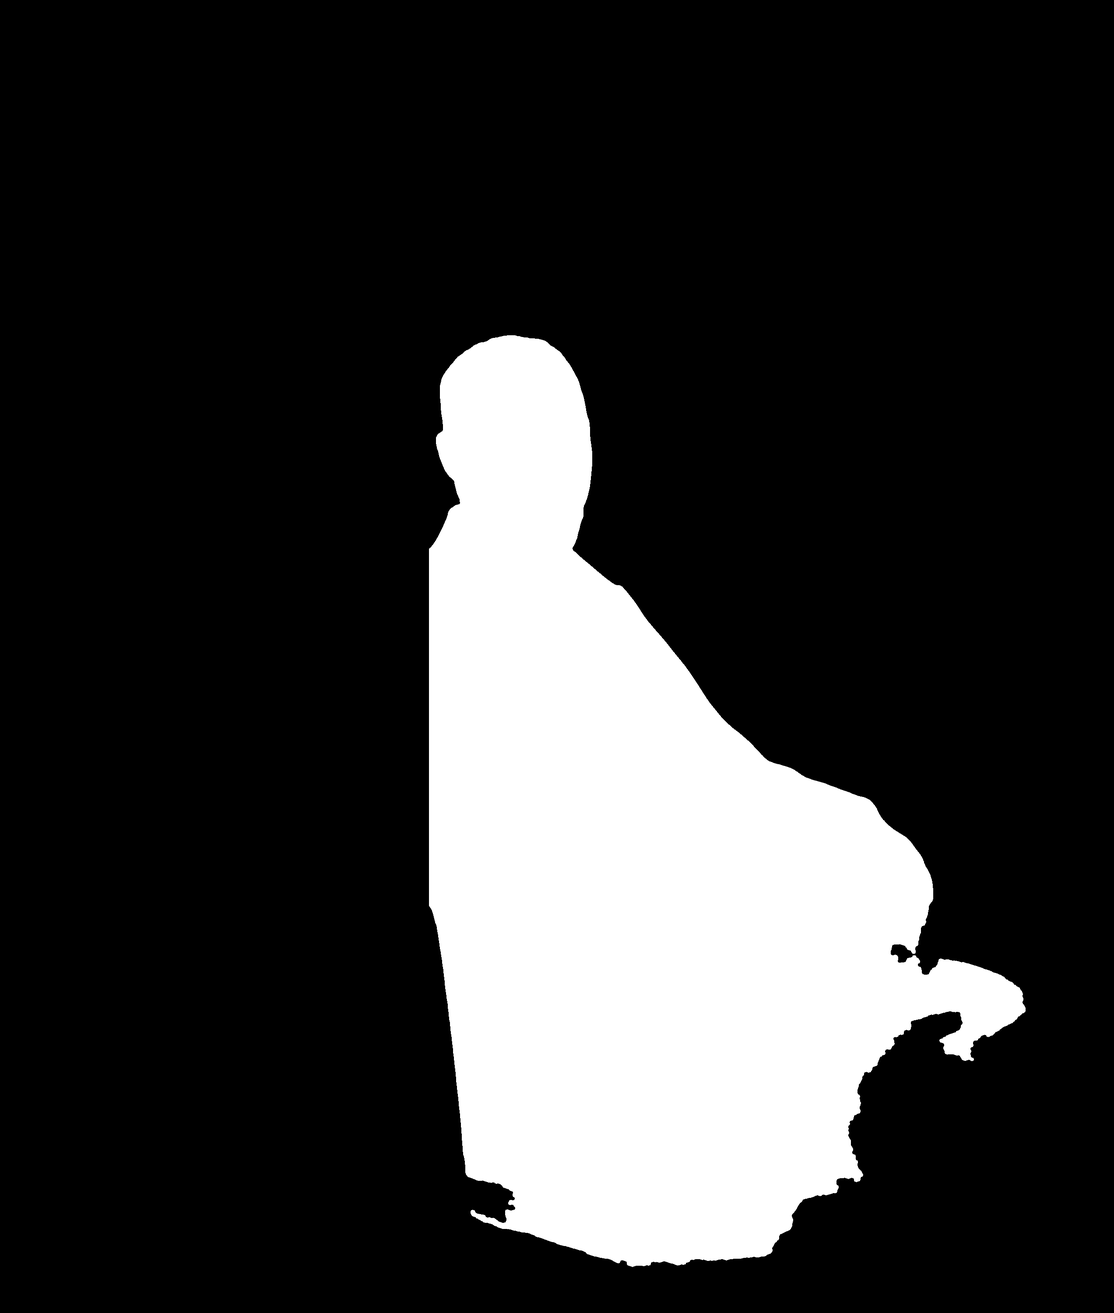
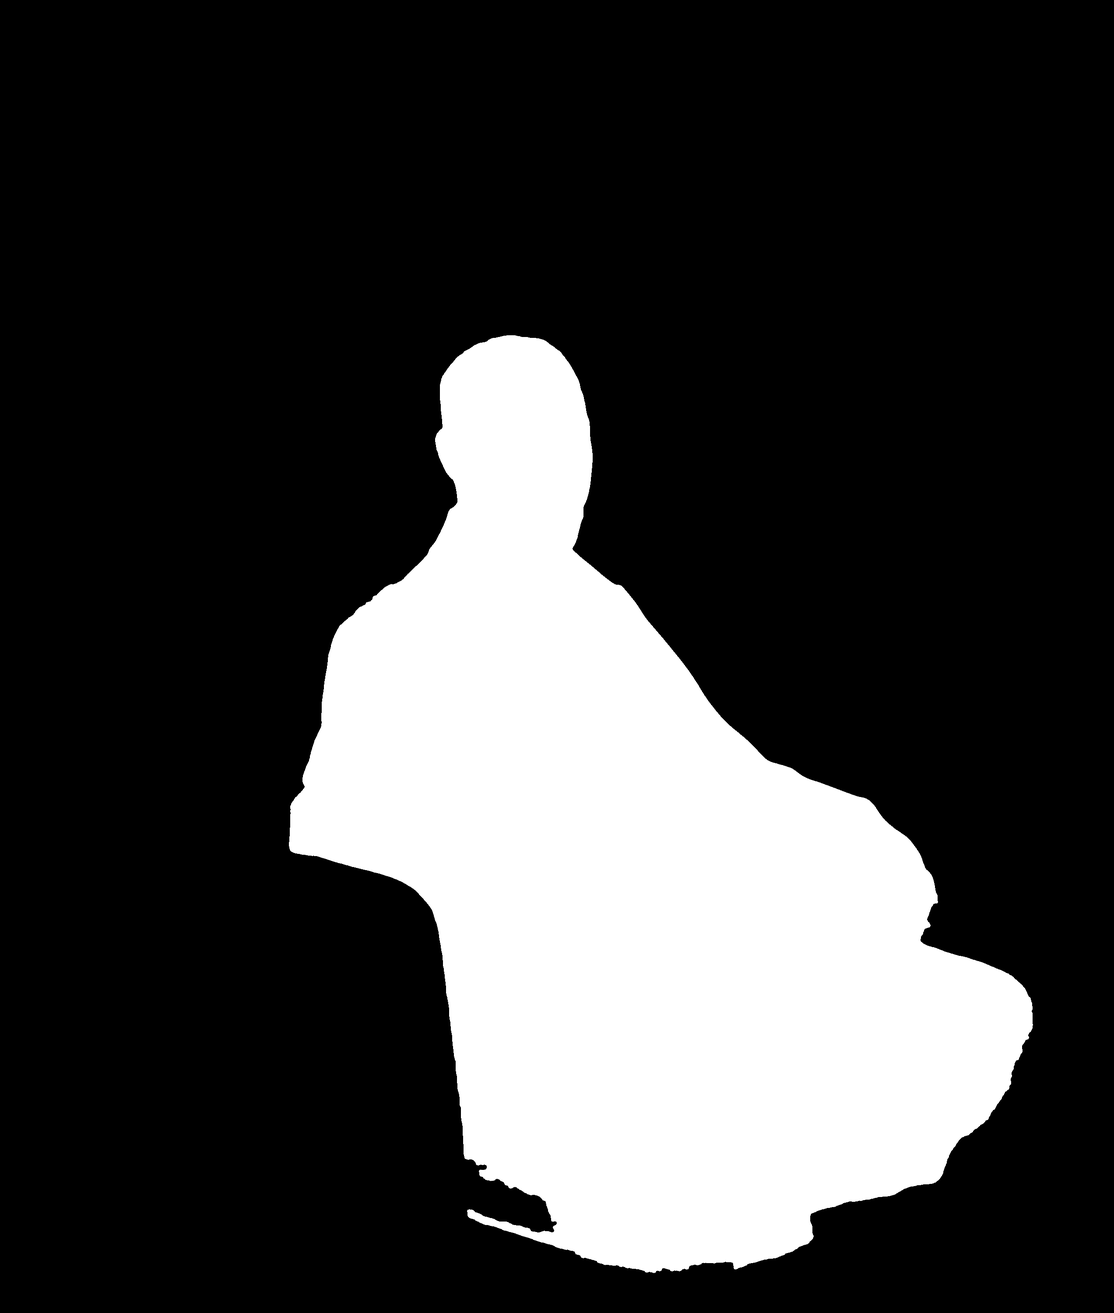
Episode 2 ch01 (cold open, title card); board end shot avoids slicing pieces; row 2 moved clear of Episode 1
Claude-Session: https://claude.ai/code/session_01VWs6QjyLkPcnJxKdxdrfAF

diff --git a/projects/Reconstruction/ep2/src/kit/ep2board.tsx b/projects/Reconstruction/ep2/src/kit/ep2board.tsx
@@ -38,60 +38,60 @@ const Roll: React.FC<{mark: number}> = ({mark}) => (
 // Episode 2's pieces (ch = this episode's chapter). Episode 1's come from its own table, already landed.
 const P2: Piece[] = [
   // ch01 ★ the first Black senator
-  {id: 'senators', ch: 1, dt: 0, kind: 'drop', x: 520, y: 1150, r: -2, el: () => <Photo src={W + 'cr_senators.png'} w={400} />},
-  {id: 'senatorsStrip', ch: 1, dt: 12, kind: 'slide', x: 530, y: 1462, r: 2, el: () => <Strip text="the first Black senator · 1870" seed="s2" size={22} bg={CORAL_LABEL} />},
+  {id: 'senators', ch: 1, dt: 0, kind: 'drop', x: 520, y: 1350, r: -2, el: () => <Photo src={W + 'cr_senators.png'} w={400} />},
+  {id: 'senatorsStrip', ch: 1, dt: 12, kind: 'slide', x: 530, y: 1662, r: 2, el: () => <Strip text="the first Black senator · 1870" seed="s2" size={22} bg={CORAL_LABEL} />},
   // ch02 the three words go up under the petition; the army goes back in
   {id: 'words', ch: 2, dt: 0, kind: 'drop', x: 680, y: 205, r: 1, el: () => <Photo src={W + 'cr_three_words.png'} w={560} />},
   {id: 'districts', ch: 2, dt: 22, kind: 'drop', x: 2000, y: 140, r: 3, el: () => <Photo src={W + 'cr_districts.png'} w={360} />},
   {id: 'districtsStrip', ch: 2, dt: 34, kind: 'slide', x: 2000, y: 355, r: -2, el: () => <Strip text="5 military districts · 1867" seed="md" size={20} />},
   // ch03 the blacksmith: his name on the roll of the 1868 convention
-  {id: 'roll', ch: 3, dt: 0, kind: 'drop', x: 500, y: 1540, r: -1, el: (c) => <Roll mark={c.mark} />},
-  {id: 'rollStrip', ch: 3, dt: 14, kind: 'slide', x: 520, y: 1612, r: 1, el: () => <Strip text="Charles Caldwell · Mississippi, 1868" seed="cc" size={20} />},
+  {id: 'roll', ch: 3, dt: 0, kind: 'drop', x: 500, y: 1740, r: -1, el: (c) => <Roll mark={c.mark} />},
+  {id: 'rollStrip', ch: 3, dt: 14, kind: 'slide', x: 520, y: 1812, r: 1, el: () => <Strip text="Charles Caldwell · Mississippi, 1868" seed="cc" size={20} />},
   // ch04 one vote short
-  {id: 'acquittal', ch: 4, dt: 0, kind: 'drop', x: 1000, y: 1150, r: 2, el: () => <Photo src={W + 'cr_acquittal.png'} w={260} />},
-  {id: 'short', ch: 4, dt: 26, kind: 'stamp', x: 975, y: 1380, r: -4, z: 6, el: () => <Stamp text="35 – 19 · ONE VOTE SHORT" size={24} />},
+  {id: 'acquittal', ch: 4, dt: 0, kind: 'drop', x: 1000, y: 1350, r: 2, el: () => <Photo src={W + 'cr_acquittal.png'} w={260} />},
+  {id: 'short', ch: 4, dt: 26, kind: 'stamp', x: 975, y: 1580, r: -4, z: 6, el: () => <Stamp text="35 – 19 · ONE VOTE SHORT" size={24} />},
   // ch05 ★ the 15th Amendment (LAW), and VOTELESS struck on the three words
-  {id: 'fifteenth', ch: 5, dt: 0, kind: 'drop', x: 60, y: 1150, r: 1.5, el: () => (
+  {id: 'fifteenth', ch: 5, dt: 0, kind: 'drop', x: 60, y: 1350, r: 1.5, el: () => (
     <Scrap text="The right of citizens … to vote shall not be denied … on account of race, color, or previous condition of servitude." mark="on account of race, color, or previous condition of servitude" w={390} seed="15" size={23} />
   )},
-  {id: 'fifteenthStrip', ch: 5, dt: 12, kind: 'slide', x: 70, y: 1116, r: -2, el: () => <Strip text="15th Amendment · 1870" seed="e15" size={20} bg={CORAL_LABEL} />},
+  {id: 'fifteenthStrip', ch: 5, dt: 12, kind: 'slide', x: 70, y: 1316, r: -2, el: () => <Strip text="15th Amendment · 1870" seed="e15" size={20} bg={CORAL_LABEL} />},
   {id: 'strike', ch: 5, dt: 30, kind: 'fade', x: 1000, y: 232, z: 8, el: (c) => (
     <svg width={160} height={24} style={{overflow: 'visible'}}><path d={`M 4 14 Q 70 4 ${4 + 150 * c.strike} 12`} stroke={TEAL} strokeWidth={8} fill="none" strokeLinecap="round" /></svg>
   )},
   // ch06 bottom rail on top
-  {id: 'rail', ch: 6, dt: 0, kind: 'slap', x: 1020, y: 1480, r: -4, el: () => <Sticky text="bottom rail on top" w={190} size={44} />},
-  {id: 'officeholders', ch: 6, dt: 20, kind: 'stamp', x: 1230, y: 1560, r: 3, z: 6, el: () => <Stamp text="≈ 2,000 IN OFFICE" size={26} />},
+  {id: 'rail', ch: 6, dt: 0, kind: 'slap', x: 1020, y: 1680, r: -4, el: () => <Sticky text="bottom rail on top" w={190} size={44} />},
+  {id: 'officeholders', ch: 6, dt: 20, kind: 'stamp', x: 1230, y: 1760, r: 3, z: 6, el: () => <Stamp text="≈ 2,000 IN OFFICE" size={26} />},
   // ch07 carpetbaggers: Ames (PROTECTION)
   {id: 'ames', ch: 7, dt: 0, kind: 'drop', x: 2010, y: 560, r: -2, el: () => <Photo src={W + 'cr_ames.png'} w={200} />},
   {id: 'amesStrip', ch: 7, dt: 12, kind: 'slide', x: 1990, y: 840, r: 2, el: () => <Strip text="Adelbert Ames · Mississippi" seed="am" size={20} />},
   // ch08 sharecropping (LAND)
-  {id: 'contract', ch: 8, dt: 0, kind: 'drop', x: 1510, y: 1150, r: 2, el: () => <Photo src={W + 'cr_contract.png'} w={330} />},
-  {id: 'contractStrip', ch: 8, dt: 12, kind: 'slide', x: 1500, y: 1400, r: -2, el: () => <Strip text="sharecropping · 1867" seed="sh" size={20} />},
+  {id: 'contract', ch: 8, dt: 0, kind: 'drop', x: 1510, y: 1350, r: 2, el: () => <Photo src={W + 'cr_contract.png'} w={330} />},
+  {id: 'contractStrip', ch: 8, dt: 12, kind: 'slide', x: 1500, y: 1600, r: -2, el: () => <Strip text="sharecropping · 1867" seed="sh" size={20} />},
   // ch09 the debt, and convict leasing
-  {id: 'debt', ch: 9, dt: 0, kind: 'drop', x: 1500, y: 1480, r: -1.5, el: () => (
+  {id: 'debt', ch: 9, dt: 0, kind: 'drop', x: 1500, y: 1680, r: -1.5, el: () => (
     <Scrap text="Settling up: the crop sold, the family's half, minus the store, plus interest. It owes more than it made." mark="It owes more than it made." w={330} seed="dbt" size={21} />
   )},
-  {id: 'convict', ch: 9, dt: 30, kind: 'slap', x: 1900, y: 1560, r: 5, el: () => <Sticky text="convict leasing" w={170} size={42} />},
+  {id: 'convict', ch: 9, dt: 30, kind: 'slap', x: 1900, y: 1760, r: 5, el: () => <Sticky text="convict leasing" w={170} size={42} />},
 ];
 
 const N2: BPin[] = [
-  {ch: 1, dt: 22, x: 720, y: 1165, coral: true},
+  {ch: 1, dt: 22, x: 720, y: 1365, coral: true},
   {ch: 2, dt: 10, x: 960, y: 212},
   {ch: 2, dt: 42, x: 2180, y: 152},
-  {ch: 3, dt: 22, x: 1120, y: 1548},
-  {ch: 4, dt: 22, x: 1130, y: 1162},
-  {ch: 5, dt: 22, x: 255, y: 1160, coral: true},
+  {ch: 3, dt: 22, x: 1120, y: 1748},
+  {ch: 4, dt: 22, x: 1130, y: 1362},
+  {ch: 5, dt: 22, x: 255, y: 1360, coral: true},
   {ch: 7, dt: 22, x: 2110, y: 572},
-  {ch: 8, dt: 22, x: 1675, y: 1162},
-  {ch: 9, dt: 22, x: 1665, y: 1490},
+  {ch: 8, dt: 22, x: 1675, y: 1362},
+  {ch: 9, dt: 22, x: 1665, y: 1690},
 ];
 
 const T2: Thread[] = [
   {ch: 2, dt: 48, a: [1270, 715], b: [2180, 152], tag: 'therefore', tagT: 0.58, under: true},
   {ch: 4, dt: 30, a: [1270, 715], b: [1665, 150], tag: '✕', tagT: 0.5, under: true, cut: true},
   {ch: 7, dt: 30, a: [2110, 572], b: [2420, 980], tag: 'part 3 →', tagT: 1, dashed: true},
-  {ch: 8, dt: 28, a: [1680, 465], b: [1675, 1162], tag: 'therefore', tagT: 0.86, under: true},
-  {ch: 9, dt: 40, a: [255, 125], b: [1985, 1570], tag: 'therefore', tagT: 0.93, under: true},
+  {ch: 8, dt: 28, a: [1680, 465], b: [1675, 1362], tag: 'therefore', tagT: 0.9, under: true},
+  {ch: 9, dt: 40, a: [255, 125], b: [1985, 1770], tag: 'therefore', tagT: 0.93, under: true},
 ];
 
 // Episode 1's pieces are all landed: their chapters count as before this episode (ch - 100).
@@ -103,8 +103,8 @@ const COLUMNS = [...E1(C1), {ch: 2, text: 'PROTECTION', x: 2000, y: 34}];
 
 /** Where the camera starts for each chapter's arrival: centre x, centre y, zoom. */
 export const FOCUS: Record<number, [number, number, number]> = {
-  1: [720, 1300, 1.6], 2: [1700, 260, 1.15], 3: [820, 1580, 1.6], 4: [1130, 1270, 1.6], 5: [255, 1250, 1.6],
-  6: [1150, 1560, 1.6], 7: [2110, 700, 1.5], 8: [1675, 1280, 1.5], 9: [1720, 1570, 1.5], 10: [1215, 850, 0.6],
+  1: [720, 1500, 1.6], 2: [1700, 260, 1.15], 3: [820, 1780, 1.6], 4: [1130, 1470, 1.6], 5: [255, 1450, 1.6],
+  6: [1150, 1760, 1.6], 7: [2110, 700, 1.5], 8: [1675, 1480, 1.5], 9: [1720, 1770, 1.5], 10: [1215, 950, 0.55],
 };
 
 const ThreadTag: React.FC<{text: string; x: number; y: number; show: number; coral?: boolean}> = ({text, x, y, show, coral}) => (
@@ -143,23 +143,37 @@ export const SeriesBoard: React.FC<{ch: number; from: number; at: number; cam?: 
   const when = (pch: number, dt: number) => (pch < ch ? from - 400 : pch === ch ? at + dt : 1e7);
   const [fx, fy, fz] = FOCUS[ch];
   const lastDt = Math.max(0, ...[...P2, ...N2, ...T2].filter((p) => p.ch === ch).map((p) => p.dt));
-  // end shot: this chapter's pieces (and non-tucked thread ends), widened to take in any piece it would otherwise slice
-  const rect = (p: Piece) => [p.x, p.y, p.x + SIZE[p.kind][0], p.y + SIZE[p.kind][1]];
+  // end shot: this chapter's pieces (and non-tucked thread ends) in frame, and the frame's edges in empty board, so no
+  // other piece is sliced: try the tightest zoom first, then nudge the centre and widen until nothing is cut
+  const rect = (p: {kind: LandKind; x: number; y: number}) => [p.x, p.y, p.x + SIZE[p.kind][0], p.y + SIZE[p.kind][1]];
   const mineP = P2.filter((p) => p.ch === ch);
   let box = [1e9, 1e9, -1e9, -1e9];
   const grow = (r: number[]) => { box = [Math.min(box[0], r[0]), Math.min(box[1], r[1]), Math.max(box[2], r[2]), Math.max(box[3], r[3])]; };
   mineP.forEach((p) => grow(rect(p)));
   T2.filter((t) => t.ch === ch && !t.under).forEach((t) => grow([Math.min(t.a[0], t.b[0]), Math.min(t.a[1], t.b[1]), Math.max(t.a[0], t.b[0]), Math.max(t.a[1], t.b[1])]));
+  const others = PIECES.filter((p) => p.ch <= ch).map(rect);
+  const fits = (cx: number, cy: number, z: number) => {
+    const hw = 960 / z, hh = 540 / z, m = 70 / z;   // keep the chapter's pieces 70 px inside the edge
+    const v = [cx - hw, cy - hh, cx + hw, cy + hh];
+    if (box[0] < v[0] + m || box[2] > v[2] - m || box[1] < v[1] + m || box[3] > v[3] - m) return false;
+    return others.every((r) => r[2] <= v[0] || r[0] >= v[2] || r[3] <= v[1] || r[1] >= v[3] || (r[0] >= v[0] && r[2] <= v[2] && r[1] >= v[1] && r[3] <= v[3]));
+  };
+  let end: [number, number, number] = [fx, fy, 0.9];
   if (mineP.length) {
-    const pad = 160, b0 = [...box];
-    PIECES.filter((p) => p.ch < ch || p.ch === ch).forEach((p) => {
-      const r = rect(p);
-      if (r[2] > b0[0] - pad && r[0] < b0[2] + pad && r[3] > b0[1] - pad && r[1] < b0[3] + pad) grow(r);
-    });
+    const cx0 = (box[0] + box[2]) / 2, cy0 = (box[1] + box[3]) / 2;
+    const z0 = Math.min(1.25, Math.min(1760 / (box[2] - box[0] + 140), 940 / (box[3] - box[1] + 140)));
+    let found = false;
+    for (let z = z0; z >= 0.55 && !found; z *= 0.96) {
+      for (let r = 0; r <= 400 && !found; r += 40) {
+        for (let k = 0; k < (r ? 8 : 1) && !found; k++) {
+          const cx = cx0 + r * Math.cos((k * Math.PI) / 4), cy = cy0 + r * Math.sin((k * Math.PI) / 4) * 0.6;
+          if (fits(cx, cy, z)) { end = [cx, cy, z]; found = true; }
+        }
+      }
+    }
+    if (!found) end = [cx0, cy0, Math.max(0.55, z0 * 0.7)];
   }
-  const [bx0, by0, bx1, by1] = [box[0] - 90, box[1] - 90, box[2] + 90, box[3] + 90];
-  const endZ = mineP.length ? Math.min(1.25, Math.max(0.6, Math.min(1720 / (bx1 - bx0), 940 / (by1 - by0)))) : 0.9;
-  const ex = mineP.length ? (bx0 + bx1) / 2 : fx, ey = mineP.length ? (by0 + by1) / 2 : fy;
+  const [ex, ey, endZ] = end;
   const keys: BoardKey[] = cam ?? [
     [from, fx + 20, fy + 10, fz],
     [Math.max(from + 20, at + lastDt + 18), ex, ey, endZ],
@@ -218,8 +232,8 @@ export const SeriesBoard: React.FC<{ch: number; from: number; at: number; cam?: 
 /** The finished board's extras for the ending: the series label and the worn logo sticker. */
 export const BoardSignoff: React.FC<{at: number}> = ({at}) => (
   <>
-    <Land at={at} kind="slide" x={60} y={1700}><Strip text="RECONSTRUCTION · PART 2" seed="cs2" size={22} bg={BRAND.paper} /></Land>
-    <Land at={at + 20} kind="fade" x={2080} y={1690} r={-3}><WornLogo w={300} /></Land>
+    <Land at={at} kind="slide" x={60} y={1920}><Strip text="RECONSTRUCTION · PART 2" seed="cs2" size={22} bg={BRAND.paper} /></Land>
+    <Land at={at + 20} kind="fade" x={2080} y={1910} r={-3}><WornLogo w={300} /></Land>
   </>
 );
 

diff --git a/projects/Reconstruction/ep2/src/ch/Ch01.tsx b/projects/Reconstruction/ep2/src/ch/Ch01.tsx
@@ -1,22 +1,204 @@
-// Chapter 1 · stub: the board only (scenes to come).
+// Chapter 1 · "The First Black Senator": the cold open (Davis walks out; nine years later Revels walks in), the
+// question, the senators print landing on the series board, then the channel intro and the title card.
+// Sources: Brady studio portraits of Davis (c. 1859) and Revels (Brady-Handy, c. 1870), Currier & Ives, "The First
+// Colored Senator and Representatives" (1872), the New-York Tribune of Feb. 26, 1870, and Frank Leslie's of March 12,
+// 1870 (Revels taking the oath). All Library of Congress or Internet Archive scans.
 import React from 'react';
+import {AbsoluteFill, Audio, interpolate, Sequence, staticFile, useCurrentFrame} from 'remotion';
 import words from '../../public/audio/ch01_cold_open.words.json';
-import {DarkPaper} from '../kit/common';
+import {clamp} from '../lib/anim';
+import {Finish, Highlight, JF, Loop, PALETTES, PaletteCtx, StepCtx, Tag, useGFrame, usePal} from '../kit/Kit';
+import {DarkPaper, Sfx} from '../kit/common';
 import {SeriesBoard} from '../kit/ep2board';
-import {cut} from '../kit/rc';
-import {ChapterShell, chapterFrames, LEAD, makeTimeline, type Narration, useScene} from '../kit/shell';
+import {ChannelIntro, INTRO_FRAMES} from '../kit/Intro';
+import {type Box, cut, DocShot, PhotoShot, PRINT_F, Slip, Spot, Swipe} from '../kit/rc';
+import {makeTimeline, type Narration, Photo, useScene} from '../kit/shell';
+import {MASKS} from '../masks';
+import {DATES, SUBTITLE} from '../project';
 
 const N = words as Narration;
 const t = makeTimeline(N, 30);
-export const CH01_FRAMES = chapterFrames(N, 0);
+const TITLE_FRAMES = 150;
+/** Narration ends; the board holds a little longer, then the channel intro. */
+const END = Math.ceil(N.duration * 30) + 45;
+export const CH01_FRAMES = END + INTRO_FRAMES + TITLE_FRAMES;
+
+const PRINT = 'img/wall/senators.jpg';
+const PRINT_S: [number, number] = [1024, 782];
+const PRINT_TAG = 'Currier & Ives, "The First Colored Senator and Representatives", 1872 · Library of Congress';
+const TRIB = 'img/ch01/ny_tribune_1870-02-26_revels_sworn_in_48_8.jpg';
+const TRIB_S: [number, number] = [680, 1270];
+const TRIB_TAG = 'New-York Tribune, Feb. 26, 1870 · Library of Congress';
+const T_SWORN: Box = [210, 546, 280, 26];          // "MR. REVELS SWORN IN."
+const T_VOTE: Box = [316, 890, 192, 26];           // "Yeas, 48; Nays, 8."
+const T_OATH: Box[] = [[48, 1082, 615, 24], [48, 1104, 95, 24]]; // "…took the customary oath / of office."
+const CAPTION: Box = [168, 640, 180, 18];          // "U.S. Senator H.R. REVELS, of Mississippi"
+
+// the shots (cut two frames before the phrase)
+const S_REVELS = cut(t, 'Nine years later'), S_PRINT = cut(t, 'This is a print'), S_STOP = cut(t, 'But before'), S_SCOTT = cut(t, 'Remember the Dred');
+const S_VOTE = cut(t, "It didn't work"), S_OATH = cut(t, 'and Revels took'), S_Q = cut(t, 'Five years earlier'), S_SMITH = cut(t, 'And along the way');
+const S_BOARD = cut(t, 'Hold onto him');
+
+/** 1861: Senator Jefferson Davis, who walked out to lead the Confederacy. */
+const Davis: React.FC = () => (
+  <Photo src="img/ch01/jefferson_davis_1859_brady.jpg" size={[2341, 3000]} fx={1157} fy={790} z0={1.56} z1={1.64} a={0} b={S_REVELS} mask={MASKS.davis1859} tint={null} traceAt={t.at('Jefferson Davis') + 2}>
+    {() => (
+      <>
+        <Slip text="Sen. Jefferson Davis, Mississippi" x={1160} y={250} size={54} at={t.at('Jefferson Davis')} />
+        <Slip text="Jan. 1861: walks out" x={1160} y={380} size={54} rot={2} at={t.at('walked out')} />
+        <Slip text="to lead the Confederacy" x={1200} y={500} size={54} at={t.at('to lead')} />
+        <Tag text="Jefferson Davis, c. 1859 (Brady studio) · Library of Congress" />
+      </>
+    )}
+  </Photo>
+);
+
+/** Nine years later: Hiram Revels. */
+const Revels: React.FC = () => (
+  <Photo src="img/ch01/revels_brady_handy_1870.jpg" size={[2545, 3000]} fx={1600} fy={1000} z0={1.08} z1={1.16} a={S_REVELS} b={S_PRINT} mask={MASKS.revels} traceAt={t.at('Hiram Revels') + 2}>
+    {() => (
+      <>
+        <Slip text="1870 · from Mississippi" x={150} y={240} size={56} at={t.at('his home state')} />
+        <Slip text="Hiram Revels" x={150} y={370} size={64} rot={2} at={t.at('Hiram Revels')} coral />
+        <Slip text="a minister" x={180} y={500} size={54} at={t.at('Black minister')} />
+        <Tag text="Hiram R. Revels, c. 1870 (Brady-Handy) · Library of Congress" />
+      </>
+    )}
+  </Photo>
+);
+
+/** The print, then the camera finds the man seated on the left. */
+const Print: React.FC = () => {
+  const g = useGFrame();
+  const left = t.at('Look at');
+  return (
+    <DocShot src={PRINT} size={PRINT_S} seed="sen" filter={PRINT_F} tag={PRINT_TAG}
+      keys={[[S_PRINT, {x: 512, y: 380, z: 1.6}], [left, {x: 470, y: 400, z: 1.7}], [left + 30, {x: 250, y: 380, z: 2.7}], [S_STOP, {x: 240, y: 390, z: 2.85}]]}
+      over={<>
+        {g >= t.at('The first Black') && <Highlight text="THE FIRST BLACK SENATOR" x={700} y={790} size={80} at={t.at('The first Black')} seed={31} rot={-2} />}
+      </>}>
+      <Loop cx={205} cy={330} rx={120} ry={160} at={t.at('seated on the left')} seed={33} tilt={-6} />
+      <Swipe lines={[CAPTION]} from={t.at('The first Black')} to={t.end('history')} seed="cap" />
+    </DocShot>
+  );
+};
+
+/** The objection: nine years a citizen, and Dred Scott. */
+const Stop: React.FC = () => (
+  <AbsoluteFill>
+    <DocShot src={TRIB} size={TRIB_S} seed="trib" tag="" filter="grayscale(1) sepia(0.15) contrast(1.4) brightness(0.55)"
+      keys={[[S_STOP, {x: 340, y: 330, z: 1.35}], [S_SCOTT, {x: 340, y: 380, z: 1.42}]]} />
+    <AbsoluteFill style={{background: 'rgba(10,9,7,0.55)'}} />
+    <Slip text="the Constitution: a senator needs 9 years as a citizen" x={170} y={200} size={56} at={t.at('The Constitution')} />
+    <Slip text="before 1866, they argued: no Black citizens at all" x={220} y={340} size={56} rot={2} at={t.at('until 1866')} coral />
+    <Tag text="The Senate debate, New-York Tribune, Feb. 26, 1870 · Library of Congress" />
+  </AbsoluteFill>
+);
+const Scott: React.FC = () => (
+  <PhotoShot src="img/ep1/cr_dred_scott.png" size={[900, 1159]} a={S_SCOTT} b={S_VOTE} w={420} x={560} y={560} tag="Dred Scott, photograph, c. 1857 · public domain, via Wikimedia Commons">
+    <Slip text="Dred Scott decision, 1857" x={900} y={330} size={58} at={t.at('Dred Scott')} />
+    <Slip text="still using it, in 1870" x={940} y={470} size={58} rot={2} at={t.at('still using')} coral />
+  </PhotoShot>
+);
+
+/** The vote, as the Tribune printed it the next morning. */
+const Vote: React.FC = () => (
+  <DocShot src={TRIB} size={TRIB_S} seed="trib" tag={TRIB_TAG}
+    keys={[[S_VOTE, {x: 330, y: 620, z: 1.25}], [t.at('The Senate voted') - 4, {x: 380, y: 880, z: 1.9}], [S_OATH, {x: 400, y: 900, z: 2.0}]]}>
+    <Swipe lines={[T_SWORN]} from={S_VOTE + 4} to={S_VOTE + 16} seed="sw" />
+    <Swipe lines={[T_VOTE]} from={t.at('48')} to={t.end('8')} seed="vt" />
+  </DocShot>
+);
+
+/** And he took the oath: Leslie's cover engraving, with the Tribune's line. */
+const Oath: React.FC = () => (
+  <Photo src="img/ch01/revels_oath_leslies_1870_engraving.jpg" size={[2844, 3000]} fx={1420} fy={1300} z0={1.04} z1={1.1} a={S_OATH} b={S_Q} bw="grayscale(1) contrast(1.35)">
+    {() => (
+      <>
+        <Slip text="Feb. 25, 1870" x={150} y={170} size={56} at={S_OATH + 4} />
+        <Tag text={`"Administering the oath to Hiram Revels", Frank Leslie's, March 12, 1870 · Internet Archive`} />
+      </>
+    )}
+  </Photo>
+);
+
+/** The question. */
+const Question: React.FC = () => (
+  <AbsoluteFill>
+    <DarkPaper />
+    <Slip text="1865: not one Black man in Mississippi could vote" x={180} y={180} size={58} at={t.at('Five years earlier')} />
+    <Slip text="1870: a Black senator from Mississippi" x={260} y={320} size={58} rot={2} at={t.at('not one') + 20} />
+    <Highlight text="HOW SO FAST?" x={300} y={520} size={110} at={t.at('how did that')} seed={35} rot={-2} />
+    <Slip text="and what was it all resting on?" x={420} y={740} size={66} at={t.at('what was all')} coral />
+  </AbsoluteFill>
+);
+
+/** A blacksmith, still to come: a labelled stand-in, never him. */
+const Smith: React.FC = () => (
+  <PhotoShot src="img/ch03/LATER_blacksmithing_am_college_greensboro_1899.jpg" size={[640, 473]} a={S_SMITH} b={S_BOARD} w={760} x={760} y={520}
+    tag="Blacksmithing, Agricultural and Mechanical College, Greensboro, N.C., 1899 · Library of Congress">
+    <Slip text="a blacksmith, Clinton, Mississippi" x={1180} y={300} size={54} at={t.at('blacksmith')} />
+    <Slip text="(not him: no photo of him is known)" x={1220} y={420} size={46} rot={2} at={t.at('small town') + 6} />
+  </PhotoShot>
+);
+
+/** Title card after the channel intro: the senators print dimmed behind, the title on orange. */
+const Title: React.FC = () => {
+  const g = useGFrame();
+  const f = useCurrentFrame();
+  const pal = usePal();
+  return (
+    <AbsoluteFill style={{background: '#0d0c09'}}>
+      <AbsoluteFill style={{opacity: 0.32, filter: 'blur(2px)'}}>
+        <DocShot src={PRINT} size={PRINT_S} seed="tt" filter={PRINT_F} tag="" keys={[[0, {x: 512, y: 360, z: 1.95 + f * 0.0006}], [200, {x: 512, y: 360, z: 2.07}]]} />
+      </AbsoluteFill>
+      <AbsoluteFill style={{background: 'radial-gradient(ellipse at 45% 50%, rgba(8,6,4,0.25) 30%, rgba(8,6,4,0.88) 100%)'}} />
+      <Highlight text="BOTTOM RAIL" x={260} y={250} size={160} at={4} seed={71} rot={-2} />
+      <Highlight text="ON TOP" x={360} y={470} size={160} at={10} seed={72} rot={-2} />
+      {g >= 20 && <div style={{position: 'absolute', left: 420, top: 720, fontFamily: JF.display, fontSize: 64, color: pal.mark, textShadow: '0 3px 16px rgba(0,0,0,0.8)',
+        opacity: interpolate(g, [20, 26], [0, 1], clamp)}}>{SUBTITLE}</div>}
+      <Slip text={DATES} x={1380} y={760} size={60} rot={-4} at={28} />
+    </AbsoluteFill>
+  );
+};
 
 const Body: React.FC = () => {
-  const B = cut(t, "We'll find out");
-  return <>{useScene([[0, <DarkPaper key="d" />], [B, <SeriesBoard key="b" ch={1} from={B} at={t.at("Hold onto him")} />]])}</>;
+  const frame = useCurrentFrame();
+  const shots: [number, React.ReactNode][] = [
+    [0, <Davis key="d" />],
+    [S_REVELS, <Revels key="r" />],
+    [S_PRINT, <Print key="p" />],
+    [S_STOP, <Stop key="s" />],
+    [S_SCOTT, <Scott key="c" />],
+    [S_VOTE, <Vote key="v" />],
+    [S_OATH, <Oath key="o" />],
+    [S_Q, <Question key="q" />],
+    [S_SMITH, <Smith key="m" />],
+    [S_BOARD, <SeriesBoard key="b" ch={1} from={S_BOARD} at={t.at('Hold onto him') + 2} />],
+  ];
+  let scene = useScene(shots);
+  if (frame >= END + INTRO_FRAMES) scene = <Sequence from={END + INTRO_FRAMES} layout="none"><Title /></Sequence>;
+  else if (frame >= END) scene = <Sequence from={END} layout="none"><ChannelIntro /></Sequence>;
+  const fadeOut = interpolate(frame, [END - 14, END], [1, 0], clamp);
+  return (
+    <AbsoluteFill style={{background: '#000'}}>
+      <AbsoluteFill style={{opacity: frame < END ? fadeOut : 1}}>{scene}</AbsoluteFill>
+      {frame < END && <Finish vignette={0.3} />}
+      <Audio src={staticFile('audio/ch01_cold_open.wav')} />
+      <Audio src={staticFile('music/r_cold_open.mp3')} volume={(f) => interpolate(f, [0, 15, S_Q, END - 40, END], [0, 0.17, 0.17, 0.1, 0], clamp)} />
+      {shots.slice(1, -1).map(([f], i) => <Sfx key={i} at={f} src="sfx/whoosh.wav" volume={0.28} />)}
+      {[t.at('The first Black'), t.at('how did that')].map((f) => <Sfx key={f} at={f} src="sfx/stamp.wav" volume={0.3} />)}
+      {[4, 10].map((d) => <Sfx key={d} at={END + INTRO_FRAMES + d} src="sfx/stamp.wav" volume={0.36} />)}
+    </AbsoluteFill>
+  );
 };
 
 export const Ch01: React.FC = () => (
-  <ChapterShell n={N} audio="audio/ch01_cold_open.wav" lead={0}>
-    <Body />
-  </ChapterShell>
+  <PaletteCtx.Provider value={PALETTES.locked}>
+    <StepCtx.Provider value={2.5}>
+      <Body />
+    </StepCtx.Provider>
+  </PaletteCtx.Provider>
 );
+
+void Spot;

diff --git a/projects/Reconstruction/ep2/tools/mask.py b/projects/Reconstruction/ep2/tools/mask.py
@@ -26,7 +26,7 @@ JOBS = {
     # delete its layers so Parallax falls back to a flat camera move (Dressed to Kill: library, Matilda, workshop).
     # Crop to one figure when the picture has several people; the largest piece of the cut-out is kept.
     # Episode 2 portraits
-    "revels": ("img/ch01/revels_brady_handy_1870.jpg", (980, 250, 2545, 3000), "isnet-general-use"),
+    "revels": ("img/ch01/revels_brady_handy_1870.jpg", (600, 700, 2545, 2950), "isnet-general-use"),
     "davis1859": ("img/ch01/jefferson_davis_1859_brady.jpg", None, "isnet-general-use"),
     "grant": ("img/ch05/grant_brady_nara_526674.jpg", None, "isnet-general-use"),
     "ames": ("img/ch07/ames_senator_brady_handy.jpg", (250, 300, 1560, 3000), "isnet-general-use"),
